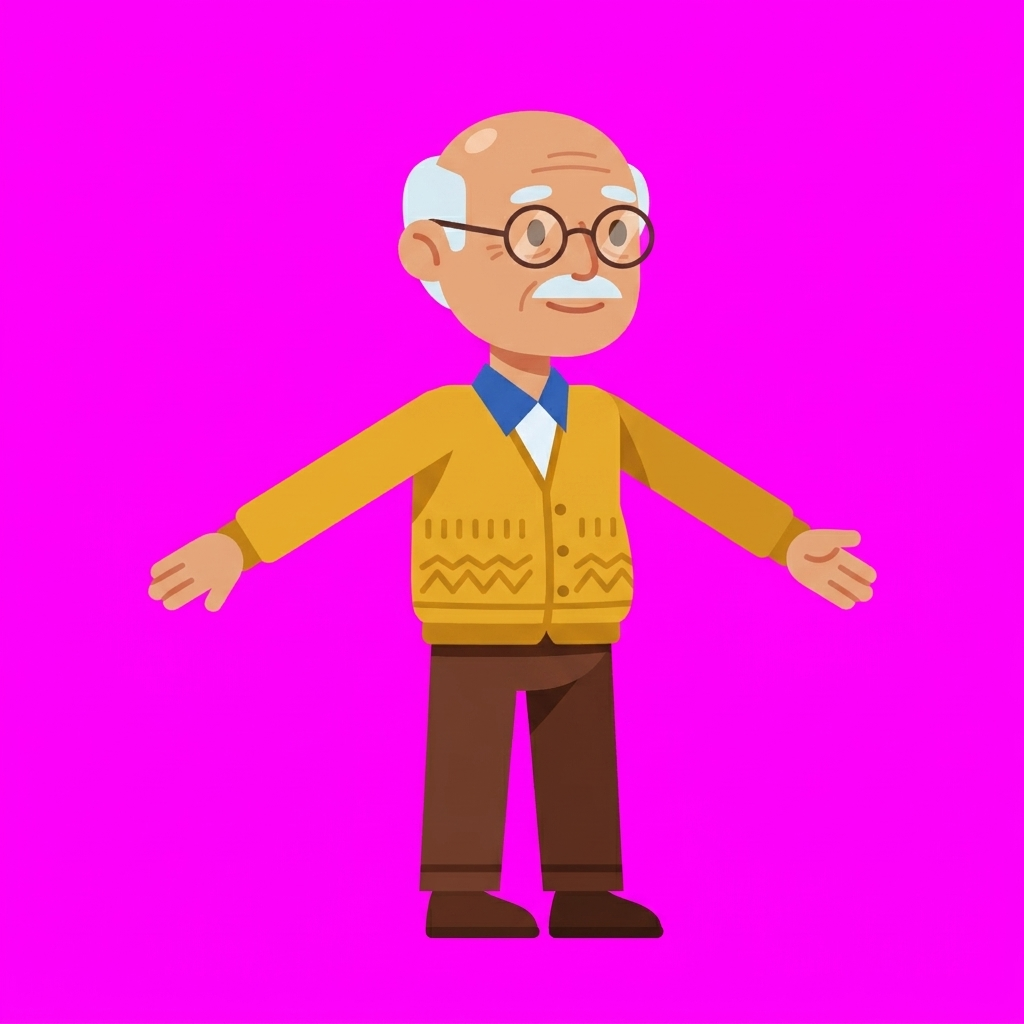
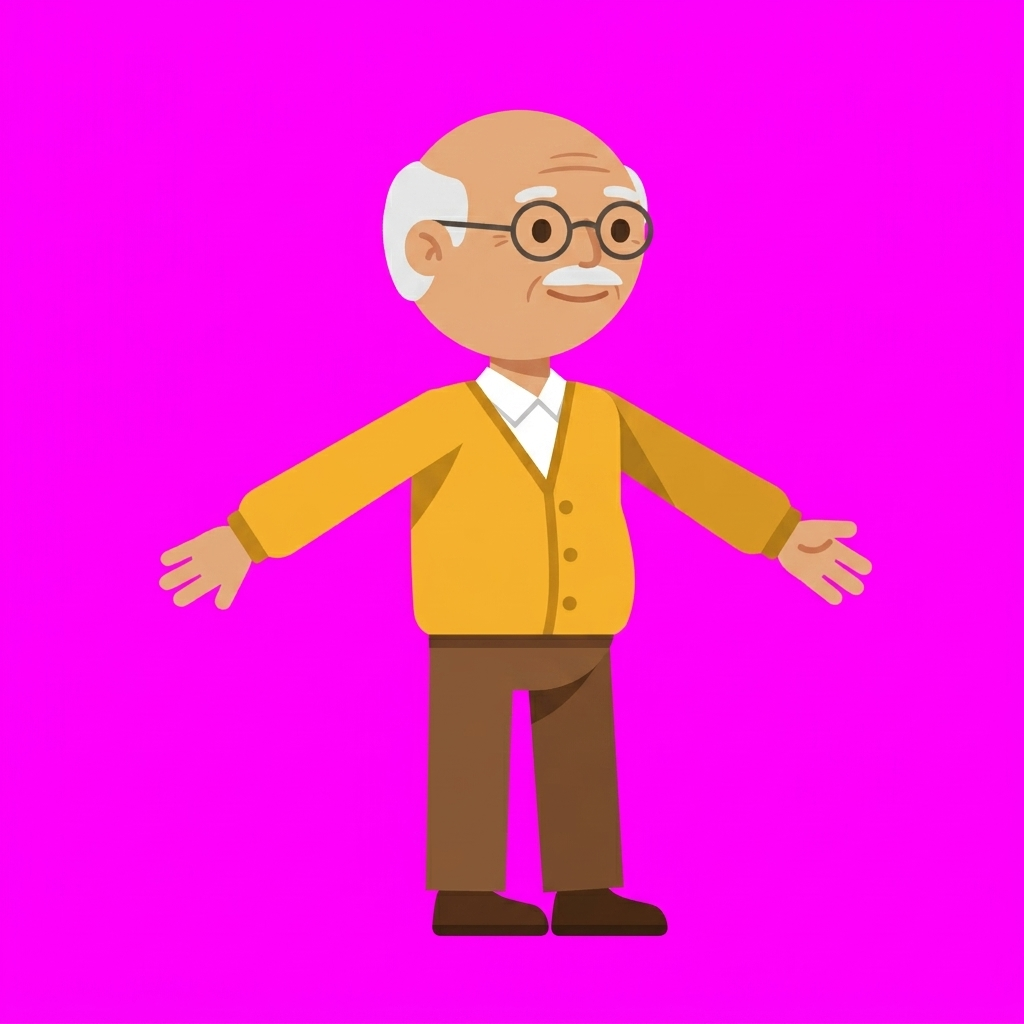
Duyệt 4 nhân vật thử (Mia, Leo, Hana, ông Bo), tay 3 ngón + ngón cái; root theo dữ liệu cắt
KaiScene lấy khoảng gốc - đế giày từ assets.rootToSole thay cho hằng 291.

diff --git a/shared/src/commonMain/kotlin/com/example/storyrig/scenes/KaiScene.kt b/shared/src/commonMain/kotlin/com/example/storyrig/scenes/KaiScene.kt
@@ -48,6 +48,8 @@ class KaiScene(private val cfg: SceneConfig, private val perf: PerfStats, privat
     private val background: Array<Shape>
     private val shadow: Array<Shape>
     private val scale: Float
+    /** Root pivot height above the ground line, in character px (from the cut data). */
+    private val rootY = assets.rootToSole + SOLE_LIFT
     private val homeX = FloatArray(n)
     private val nextMouth = FloatArray(n)
     private val nextBlink = FloatArray(n)
@@ -127,7 +129,7 @@ class KaiScene(private val cfg: SceneConfig, private val perf: PerfStats, privat
             val b = beat - i * .04f
             val bar = (b / SWITCH_BEATS).toInt().coerceAtLeast(0)
             k.player.play((i + bar) % DanceClips.ALL.size, bar * SWITCH_BEATS, fadeBeats = .5f)
-            k.reset(homeX[i], GROUND_Y - ROOT_TO_SOLE * scale, scale)
+            k.reset(homeX[i], GROUND_Y - rootY * scale, scale)
             feetNear[i].captureGround(); feetFar[i].captureGround()
             k.player.apply(b)
         } else {
@@ -149,7 +151,7 @@ class KaiScene(private val cfg: SceneConfig, private val perf: PerfStats, privat
         val ph = (beat + i * .15f) * PI.toFloat()
         val s = sin(ph)
         val bounce = abs(s)
-        k.reset(homeX[i], GROUND_Y - ROOT_TO_SOLE * scale - 22f * bounce, scale)
+        k.reset(homeX[i], GROUND_Y - rootY * scale - 22f * bounce, scale)
         k.rot(k.torso, 4f * sin(ph * .5f))
         k.rot(k.head, 6f * sin(ph + .6f))
         when (i % 3) {
@@ -217,7 +219,7 @@ class KaiScene(private val cfg: SceneConfig, private val perf: PerfStats, privat
         private const val BEAT_MS = 500f
         private const val SWITCH_BEATS = 8f
         private const val GROUND_Y = 960f
-        /** ref.png: pelvis centre (root pivot) to the soles. */
-        private const val ROOT_TO_SOLE = 291f
+        /** Soles sit this far (character px) above the shadow's centre line, so the shadow shows under them. */
+        private const val SOLE_LIFT = 11f
     }
 }
